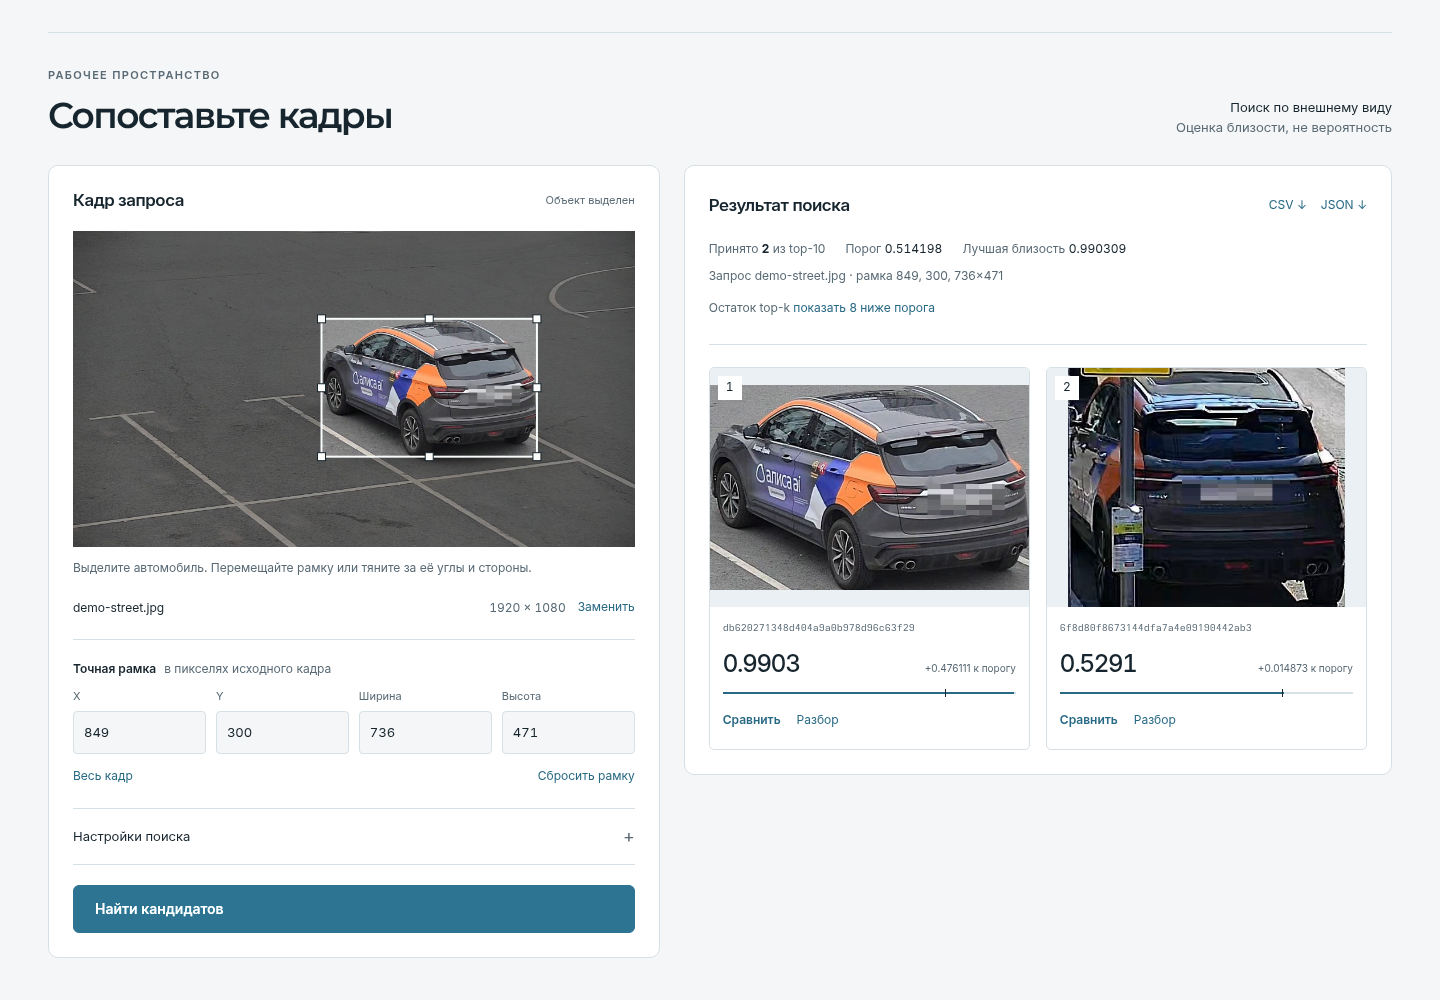
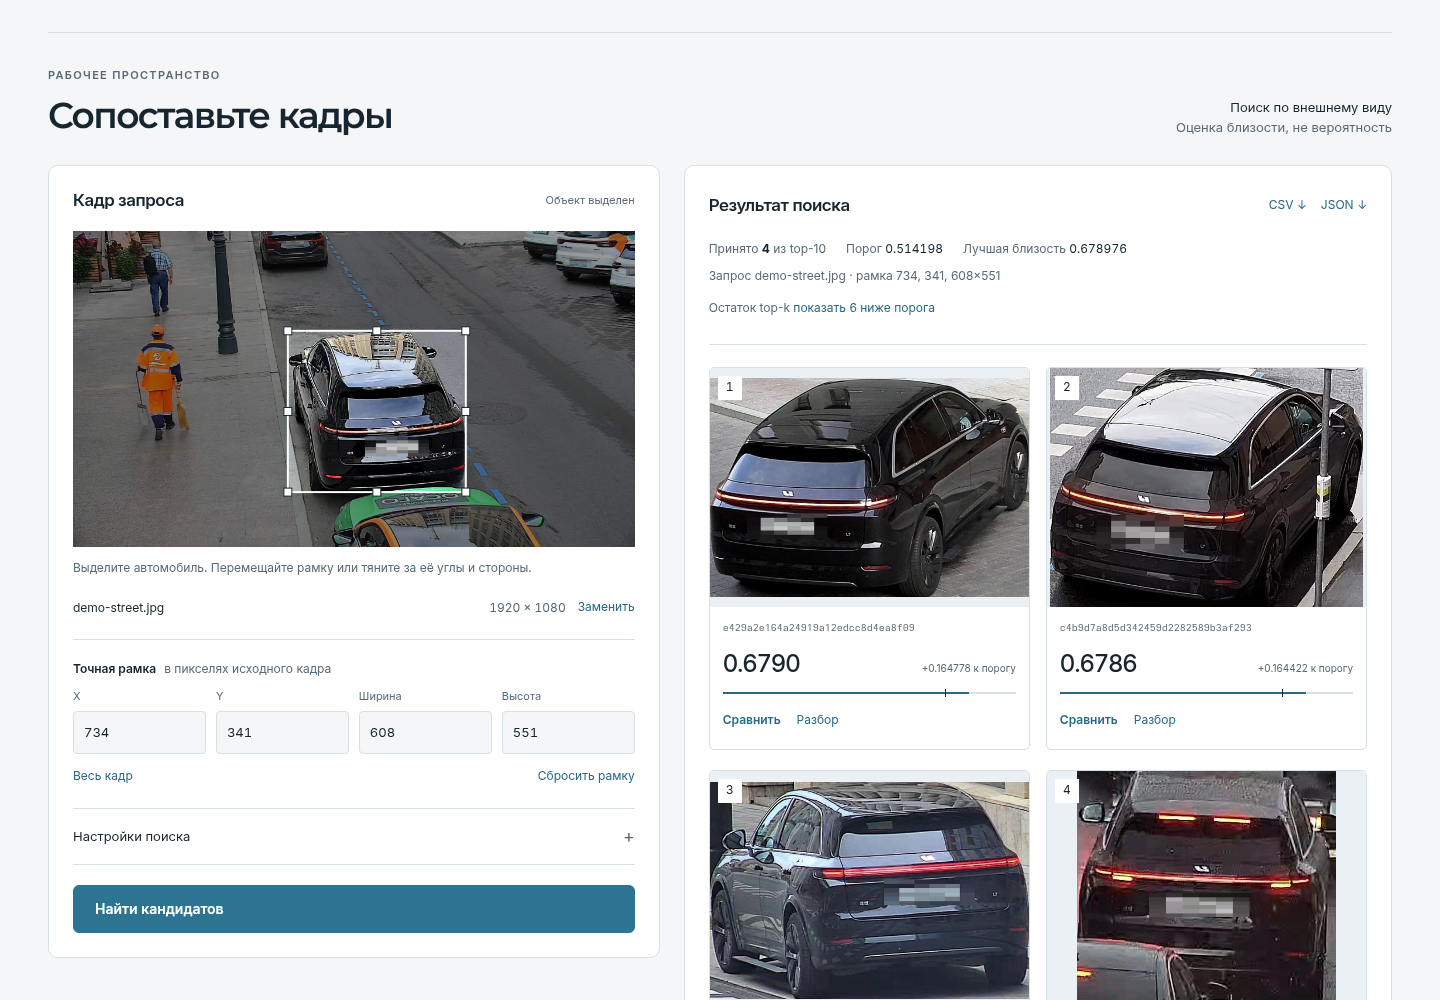
Refresh demo visuals from live search

diff --git a/04-solution/service/landing/README.md b/04-solution/service/landing/README.md
@@ -28,7 +28,7 @@ Vehicle Re-ID и проверить доказательства; выразит
 - Единственный выразительный приём: исходный кадр проходит через
   типографическую обложку, а точная зелёная рамка указывает на
   автомобиль. Размеры и положение рамки рассчитаны из разрешённого
-  примера GET /api/demo, bbox [849, 300, 736, 471] в кадре
+  примера GET /api/demo, bbox [734, 341, 608, 551] в кадре
   1920×1080.
 - После обложки: реальный сценарий поиска, фактический снимок
   рабочего сервиса, раздельные показатели batch KR и HTTP cosine,
